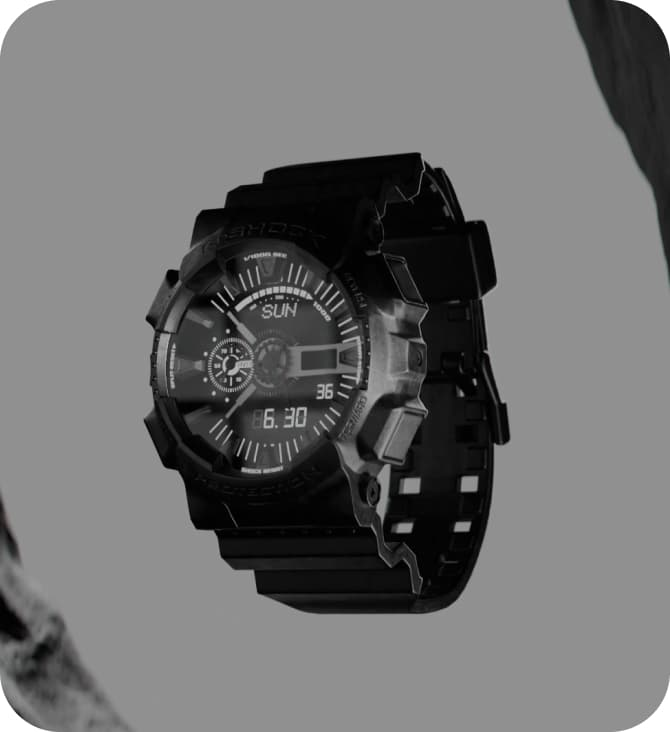
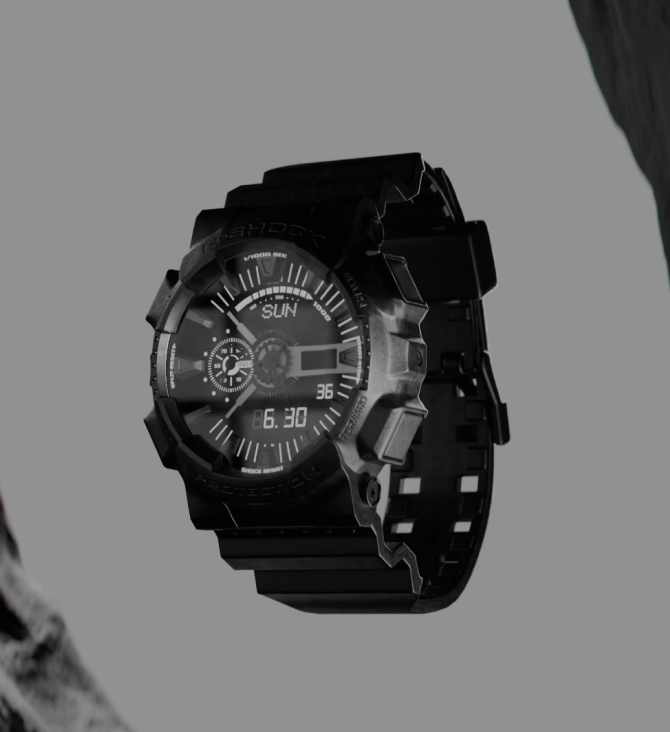
changed img with no border-radius

diff --git a/src/css/hero.css b/src/css/hero.css
@@ -166,6 +166,9 @@
         box-shadow: 0 4px 4px 0 rgba(0, 0, 0, 0.25);
         border-radius: 50px;  
     }
+    .hero-img img {
+        transform: translate(0%, 1%) scale(1.025);
+    }
 
     .hero-container {
         max-width: 768px;
